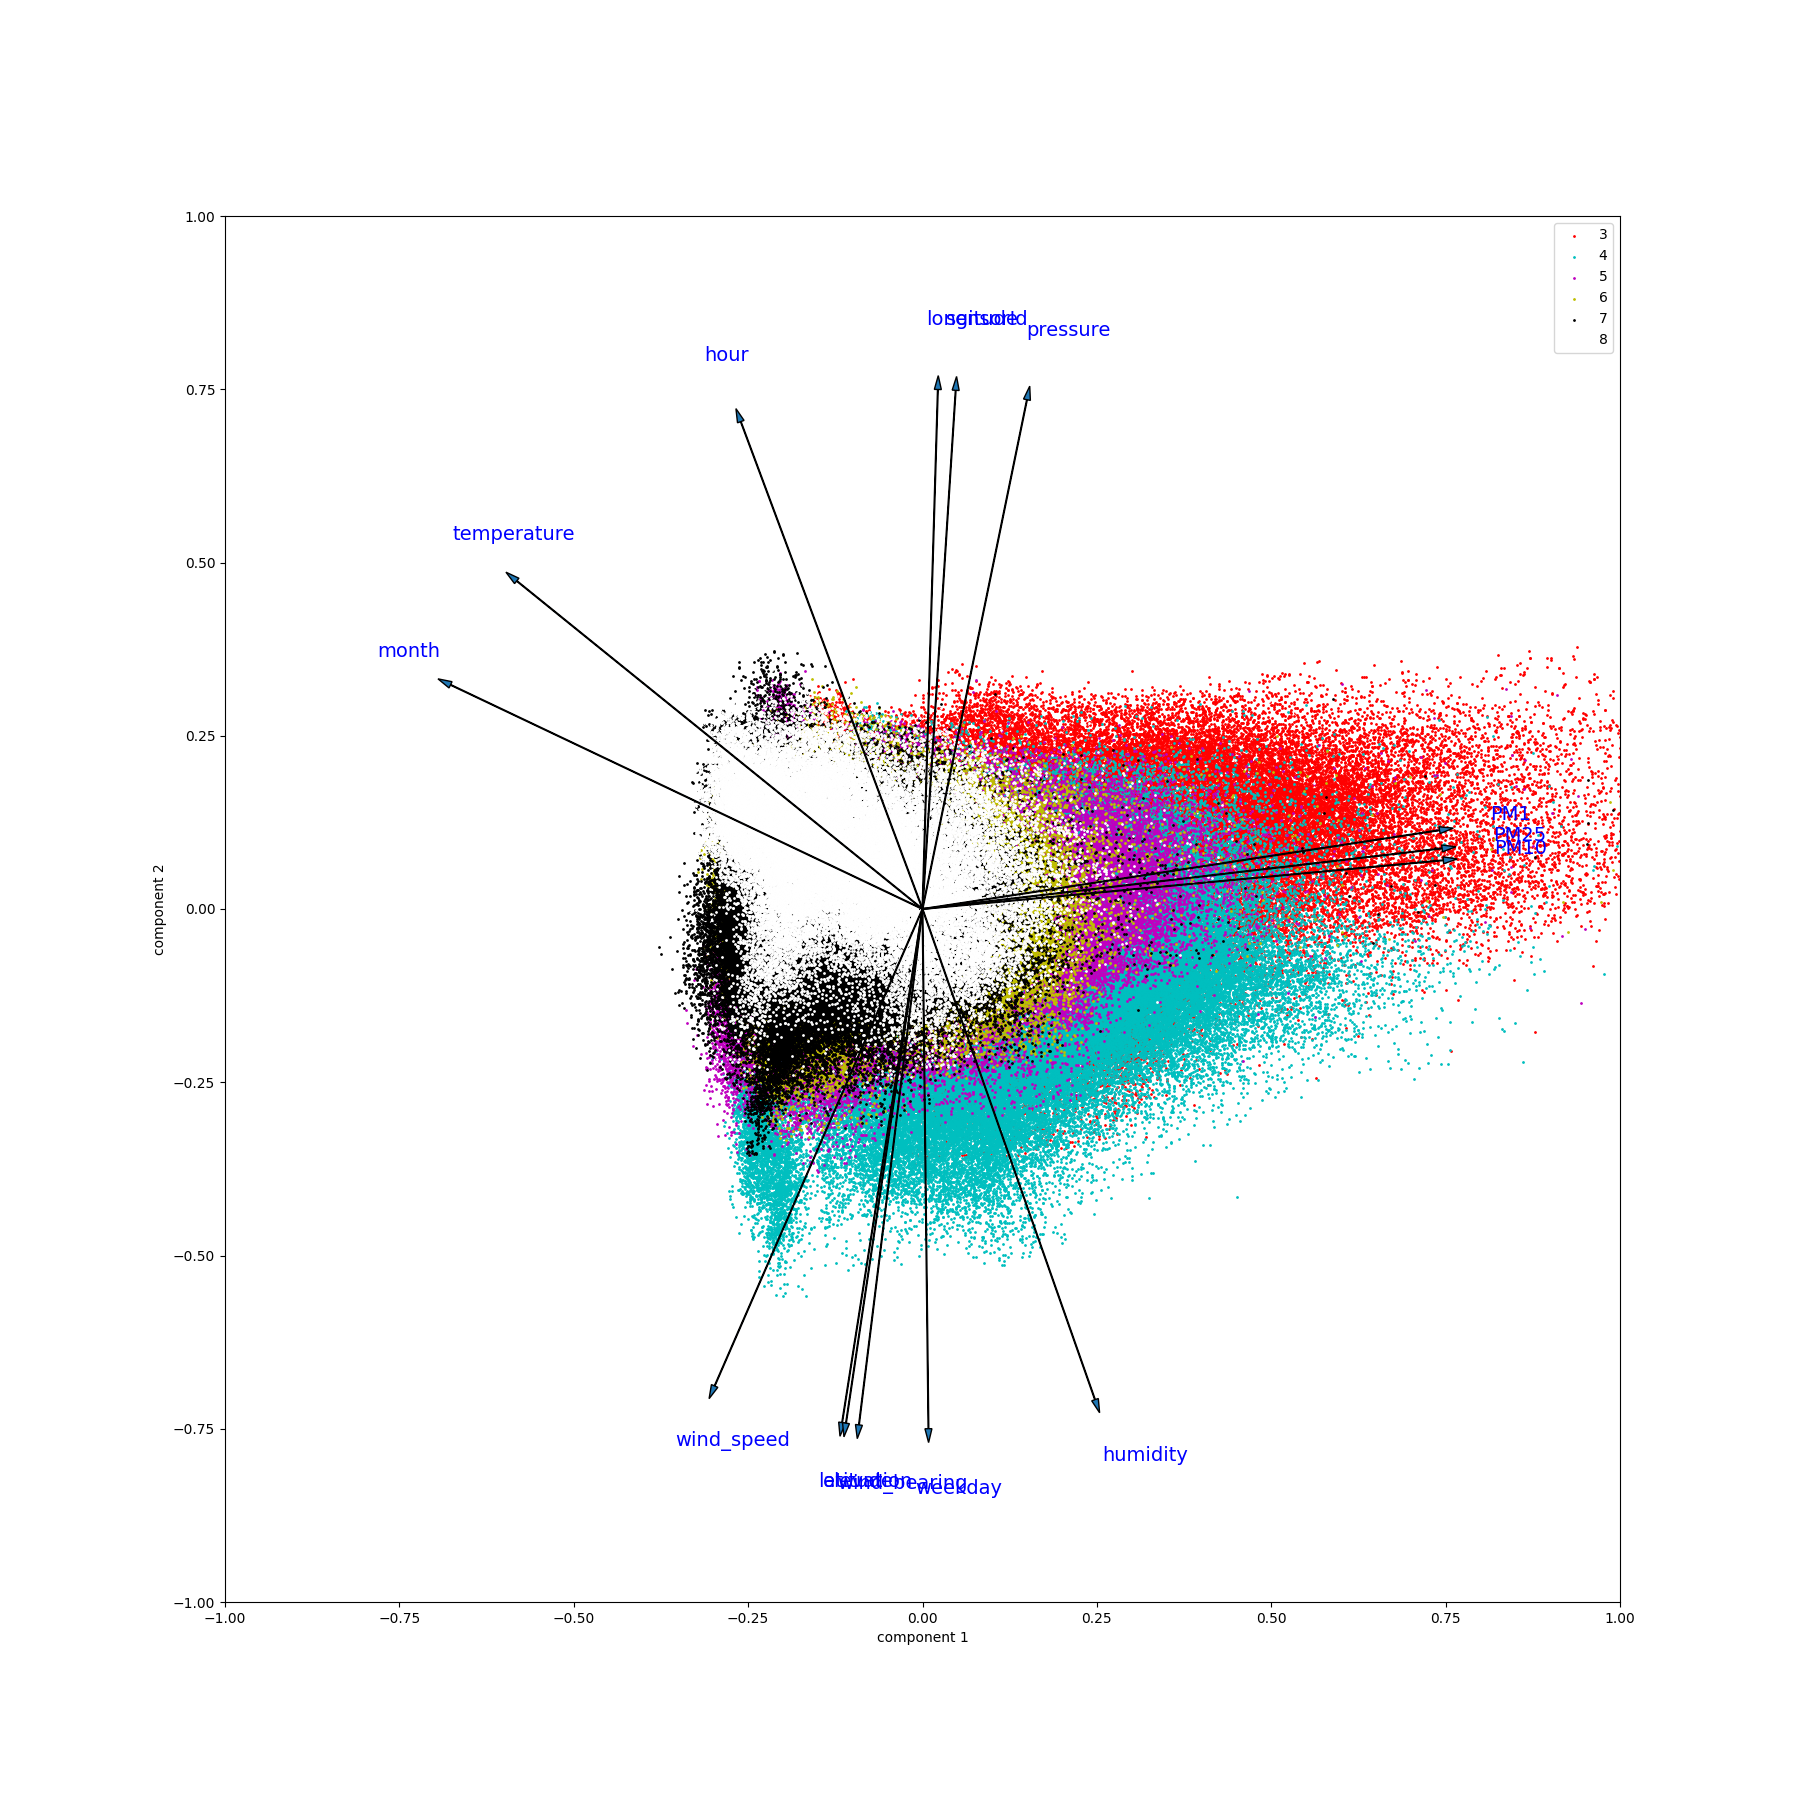
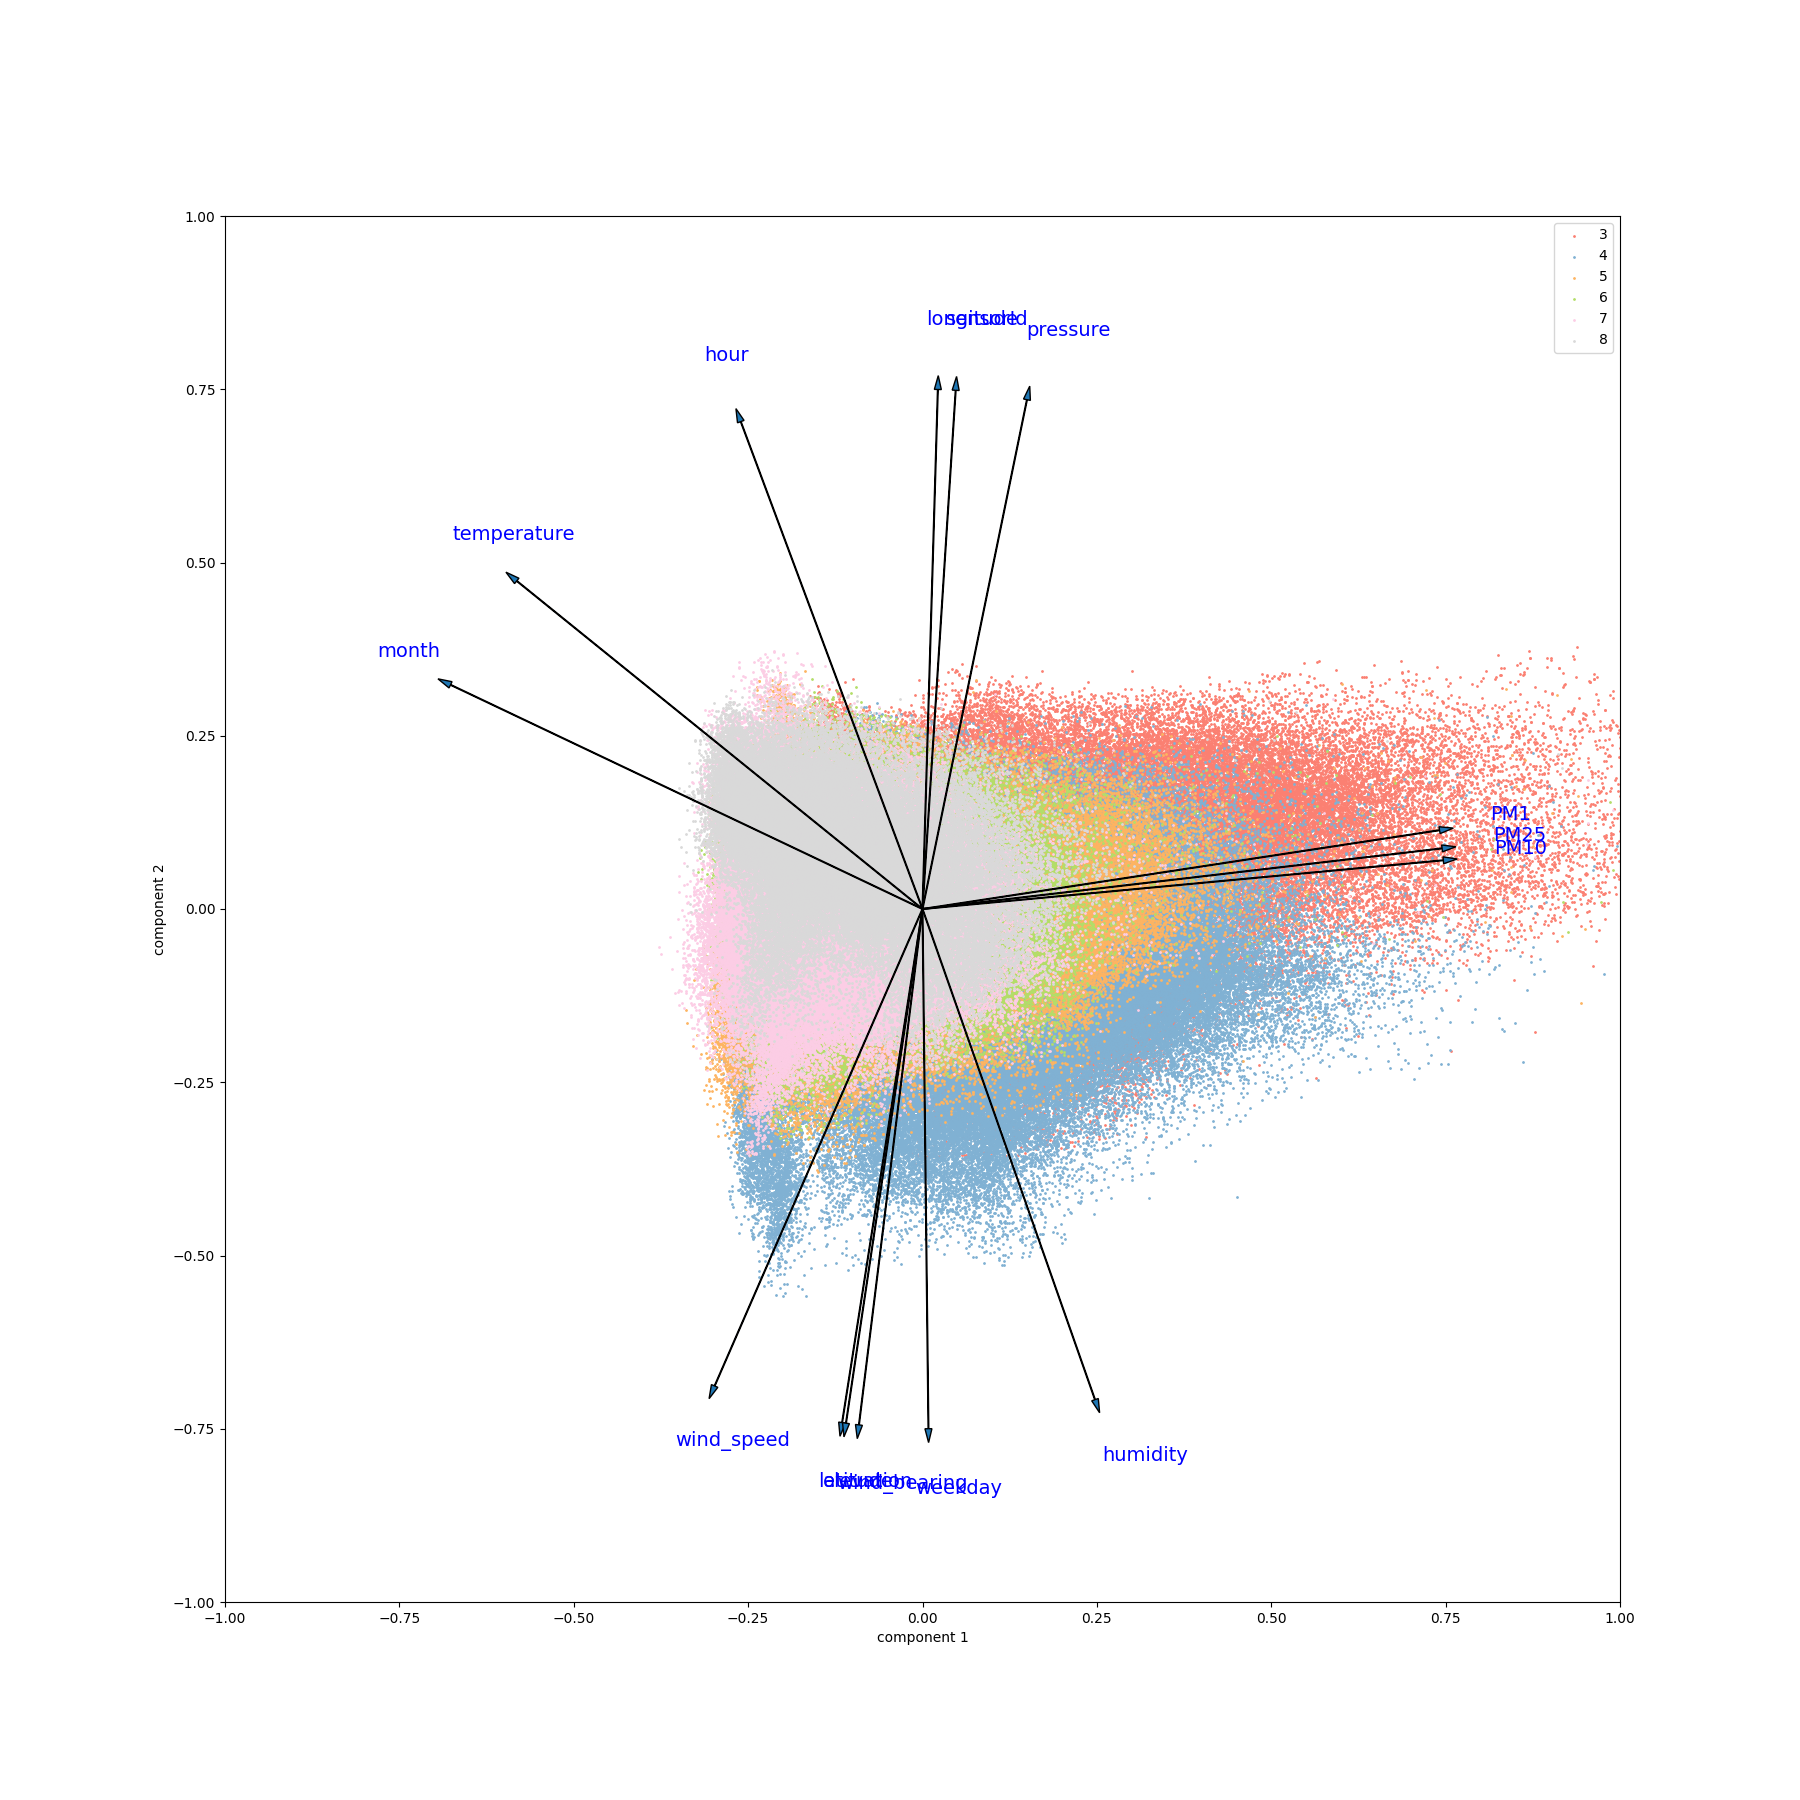
Fix plot_charts.py

Changed region(s): [[0.3733, 0.3733, 0.9022, 0.7156]]

diff --git a/plot_charts.py b/plot_charts.py
@@ -1,6 +1,7 @@
 import os
 import sys
 import matplotlib.pyplot as plt
+import matplotlib.cm as cm
 from sklearn.decomposition import PCA
 import pandas as pd
 import numpy as np
@@ -32,8 +33,6 @@ MONTH = 'month'
 
 TYPES = {PM1: 'red', PM25: 'green', PM10: 'blue'}
 
-colorlist = ['b', 'g', 'r', 'c', 'm', 'y', 'k', 'w']
-
 anim_dump_dir = './charts/anim_dump'
 
 if not os.path.exists(anim_dump_dir):
@@ -54,7 +53,7 @@ measurements_df[MONTH] = measurements_df[FROM_DATE_TIME].map(
     lambda x: x.month)
 measurements_df.drop([FROM_DATE_TIME, TILL_DATE_TIME], axis=1, inplace=True)
 
-all_charts = []
+all_charts = {}
 
 ###################################################################
 # mean ppm to time of day chart
@@ -83,7 +82,7 @@ def ppm_to_hour():
     plt.close('all')
 
 
-all_charts.append(ppm_to_hour)
+all_charts['hour'] = ppm_to_hour
 
 ###################################################################
 # mean ppm to time of day on a week/weekend day
@@ -119,8 +118,8 @@ def ppm_to_hour_day(week: bool = True):
     plt.close('all')
 
 
-all_charts.append(ppm_to_hour_day)
-all_charts.append(lambda: ppm_to_hour_day(False))
+all_charts['wd'] = ppm_to_hour_day
+all_charts['we'] = lambda: ppm_to_hour_day(False)
 
 
 ###################################################################
@@ -174,8 +173,8 @@ def ppm_to_hour_week(vertical: bool = True):
     plt.close('all')
 
 
-all_charts.append(ppm_to_hour_week)
-all_charts.append(lambda: ppm_to_hour_week(False))
+all_charts['week'] = ppm_to_hour_week
+all_charts['week_'] = lambda: ppm_to_hour_week(False)
 
 ###################################################################
 # mean ppm to time of day by months
@@ -199,8 +198,7 @@ def ppm_to_hour_day_months():
         for key in tqdm(keys):
             values[key[1]] += meas_by_h.get_group(key)['PM10'].mean()
         values = list(map(lambda x: x, list(values.values())))
-        ax.scatter(hours, values,
-                   c=colorlist[month-1 % len(colorlist)], label=month)
+        ax.scatter(hours, values, color=cm.Set3(month), label=month)
     ax.legend()
     plt.title(f'Mean PM10 ppm values in 24h by months')
     plt.xlabel(HOUR)
@@ -209,7 +207,7 @@ def ppm_to_hour_day_months():
     plt.close('all')
 
 
-all_charts.append(ppm_to_hour_day_months)
+all_charts['month'] = ppm_to_hour_day_months
 
 ###################################################################
 # ppm to wind force chart
@@ -235,7 +233,7 @@ def ppm_to_wind_speed():
         plt.close('all')
 
 
-all_charts.append(ppm_to_wind_speed)
+all_charts['ws'] = ppm_to_wind_speed
 
 ###################################################################
 # wind speed histogram
@@ -258,7 +256,7 @@ def wind_speed_hist():
     plt.close('all')
 
 
-all_charts.append(wind_speed_hist)
+all_charts['ws_hist'] = wind_speed_hist
 
 ###################################################################
 # ppm to wind bearing chart
@@ -284,7 +282,7 @@ def ppm_to_wind_bearing():
         plt.close('all')
 
 
-all_charts.append(ppm_to_wind_bearing)
+all_charts['wb'] = ppm_to_wind_bearing
 
 ###################################################################
 # wind bearing histogram
@@ -307,7 +305,7 @@ def wind_bearing_hist():
     plt.close('all')
 
 
-all_charts.append(wind_bearing_hist)
+all_charts['wb_hist'] = wind_bearing_hist
 
 ###################################################################
 # ppm to humidity chart
@@ -333,7 +331,7 @@ def ppm_to_hum():
         plt.close('all')
 
 
-all_charts.append(ppm_to_hum)
+all_charts['hum'] = ppm_to_hum
 
 ###################################################################
 # humidity histogram
@@ -356,7 +354,7 @@ def hum_hist():
     plt.close('all')
 
 
-all_charts.append(hum_hist)
+all_charts['hum_hist'] = hum_hist
 
 ###################################################################
 # correlation heatmap
@@ -378,7 +376,7 @@ def corr_heatmap():
     plt.close('all')
 
 
-all_charts.append(corr_heatmap)
+all_charts['corr'] = corr_heatmap
 
 ###################################################################
 # PCA biplot
@@ -402,13 +400,11 @@ def pca_biplot():
     points['x'] = X_pca[:, 0]
     points['y'] = X_pca[:, 1]
 
-    colormap = ['b', 'g', 'r', 'c', 'm', 'y', 'k', 'w']
-
     plt.figure(figsize=(18, 18))
     for m in data['month'].unique():
         m_points = points[points['month'] == m]
         plt.scatter(m_points['x'], m_points['y'],
-                    c=colormap[m-1 % len(colormap)], label=m, s=1)
+                    color=cm.Set3(m), label=m, s=1)
 
     plt.xlabel("component 1")
     plt.ylabel("component 2")
@@ -433,7 +429,7 @@ def pca_biplot():
     plt.close('all')
 
 
-all_charts.append(pca_biplot)
+all_charts['pca'] = pca_biplot
 
 ###################################################################
 # hourly anim map
@@ -480,39 +476,18 @@ def h_anim_map():
                 writer.append_data(image)
 
 
+all_charts['anim'] = h_anim_map
+
+
 ###################################################################
 # main
 ###################################################################
 
-if len(sys.argv) < 2:
-    for chart in all_charts:
-        chart()
-    h_anim_map()
-else:
-    for arg in sys.argv[1:]:
-        if arg == 'hour':
-            ppm_to_hour()
-        elif arg == 'week':
-            ppm_to_hour_week()
-        elif arg == 'month':
-            ppm_to_hour_day_months()
-        elif arg == 'week_':
-            ppm_to_hour_week(False)
-        elif arg == 'we':
-            ppm_to_hour_day(False)
-        elif arg == 'wd':
-            ppm_to_hour_day()
-        elif arg == 'hum':
-            ppm_to_hum()
-        elif arg == 'ws':
-            ppm_to_wind_speed()
-        elif arg == 'hist':
-            wind_bearing_hist()
-            wind_speed_hist()
-            hum_hist()
-        elif arg == 'corr':
-            corr_heatmap()
-        elif arg == 'pca':
-            pca_biplot()
-        elif arg == 'anim':
-            h_anim_map()
+if __name__ == "__main__":
+    if len(sys.argv) < 2:
+        for chart in all_charts.values():
+            chart()
+    else:
+        for arg in sys.argv[1:]:
+            if arg in all_charts.keys():
+                all_charts[arg]()
